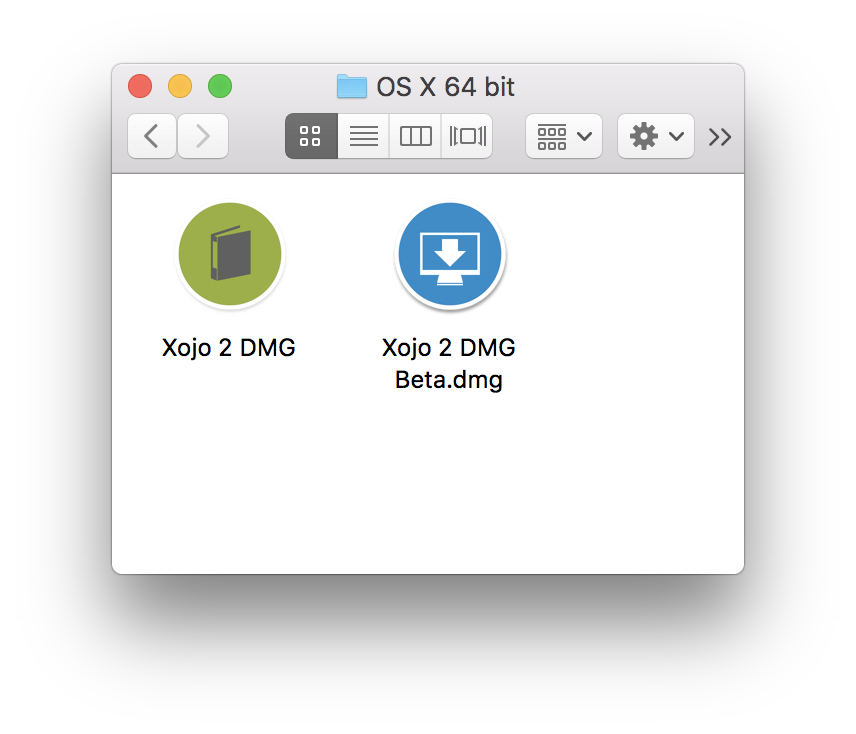
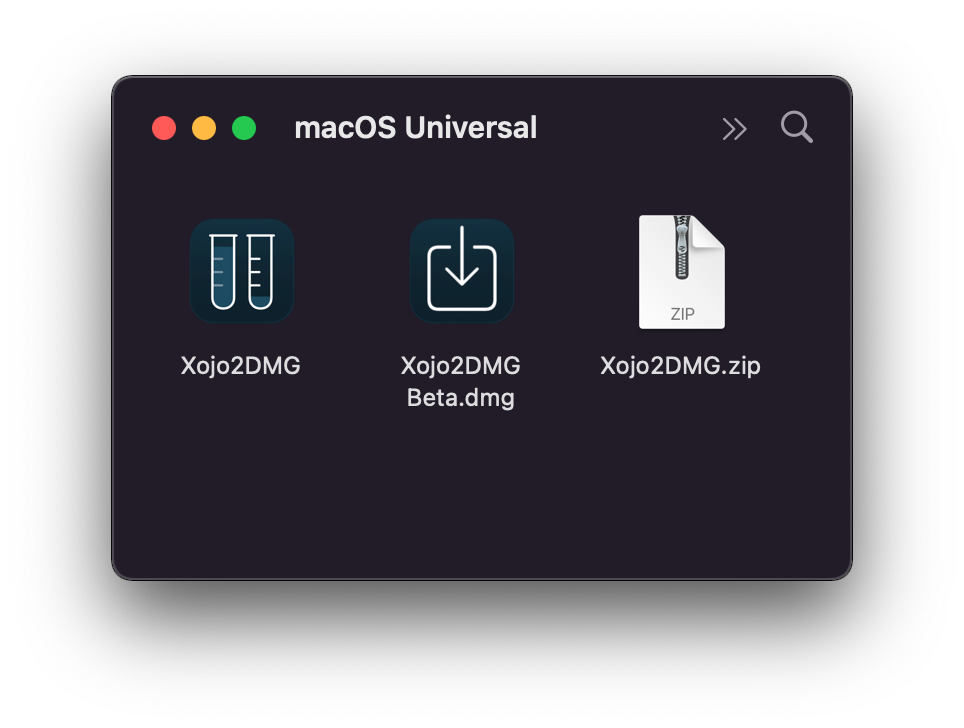
Updated ScreenShots

diff --git a/README.md b/README.md
@@ -20,7 +20,7 @@ You can easily customize the DiskImage's appearance by setting a couple of Varia
 5. Notarization: Xcode 11, macOS 10.13.6
 
 ### ScreenShots
-[This DMG](example-build/Xojo2DMG_Beta.dmg) has been created with Xojo2DMG *(built with macOS 10.15.1, Xcode 11.2.1 for CodeSigning/Notarization)*.
+[This DMG](example-build/Xojo2DMG_Beta.dmg) has been created with Xojo2DMG *(built with Xojo 2021r3.1, macOS 12.1, Xcode 13.2.1 for CodeSigning/Notarization)*. It contains the built example app *(built as macOS Universal: x86_64 & ARM64)*.
 ![ScreenShot: Disk Image](screenshots/xojo2dmg_screenshot_1.png?raw=true)
 
 Xojo IDE with the Post Build Script:  
